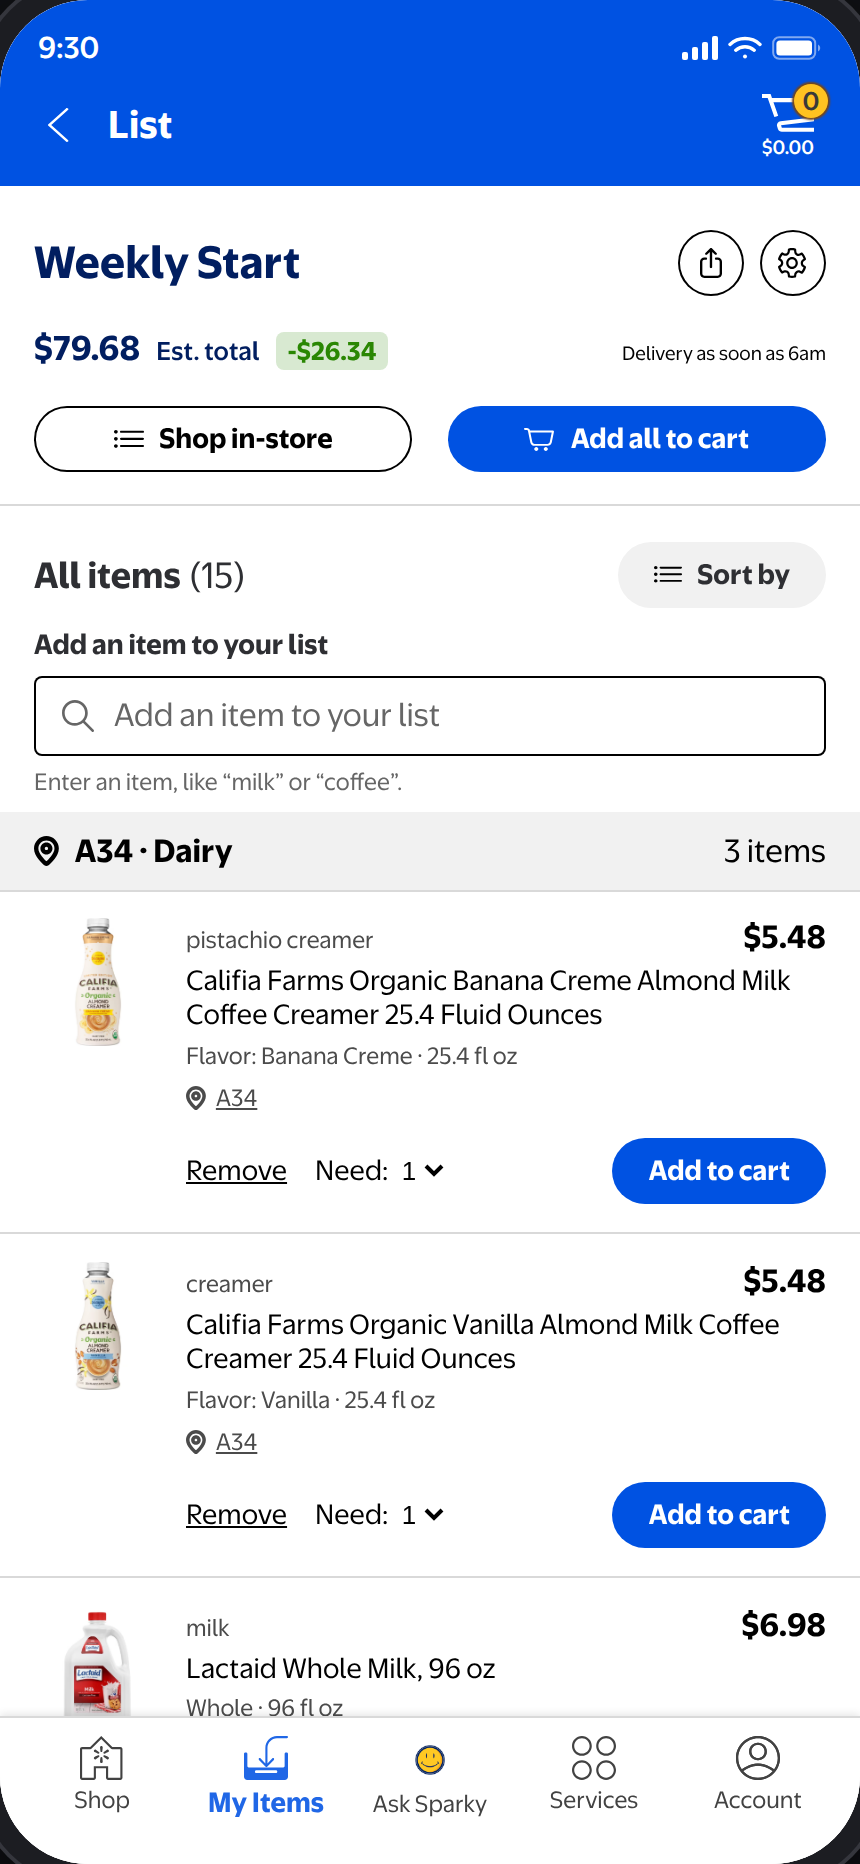
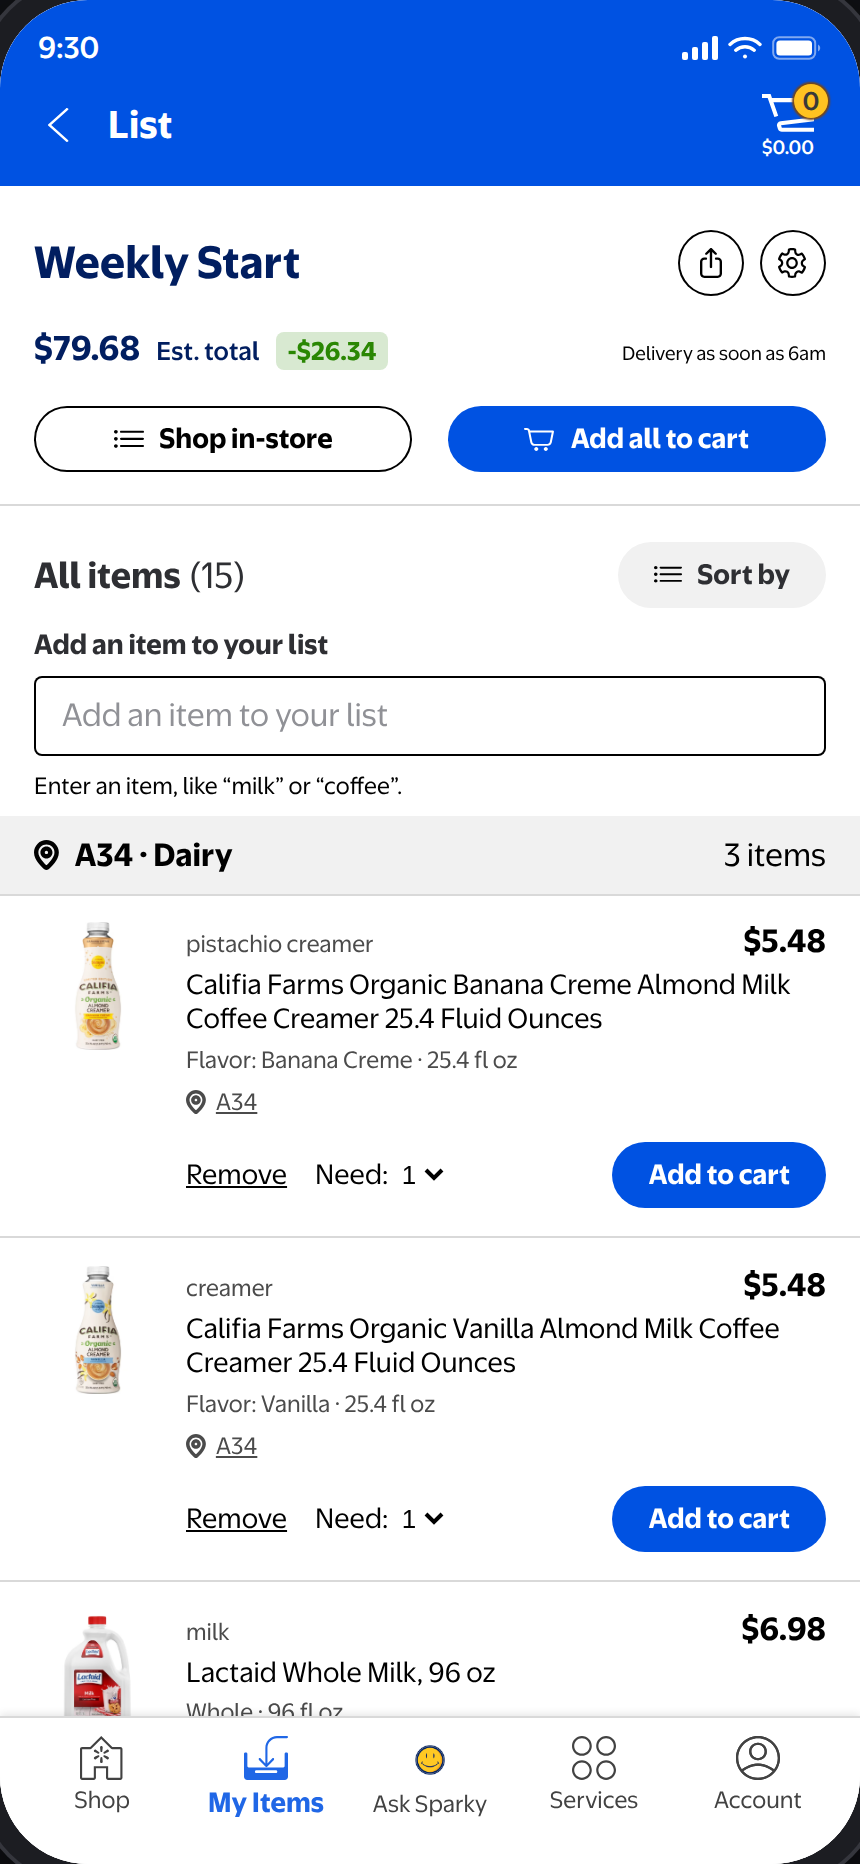
Revert the input restyle, keeping the rest of the last round
Restores the search pill, the add-an-item field and the list-name field to
exactly how they were in a11a943: a plain div pill with a magnifier, a plain
text input whose placeholder sits at full ink, and the barcode glyph on the
right. Removes the search form wrapper, type=search, clear buttons, hover and
focus rings, the muted placeholder, and the inputwrap / inputclear / inputhint
helpers along with their CSS.

Scoped deliberately: ListDetail.tsx is now byte-identical to a11a943, and the
only line still differing in Chrome.tsx is the Device style prop, which the
viewport fit depends on. Everything else from that round stays - the frame
fitting the screen, the transparent Sparky, the roomier list rows with a flash
tag on each, and the 11px card subtitle.

Verified: 12 targeted checks confirm the inputs are back and the four keepers
survived, plus the 19 behaviour checks still pass, with no console errors.

Claude-Session: https://claude.ai/code/session_01JZaS8mfLTFrBThBCfpqJJB

diff --git a/app/src/screens/ListDetail.tsx b/app/src/screens/ListDetail.tsx
@@ -58,23 +58,11 @@ export default function ListDetail() {
         </div>
 
         <div style={{ padding: '18px 16px 6px', display: 'flex', gap: 14, alignItems: 'center' }}>
-          <div className="inputwrap" style={{ flex: 1 }}>
-            <input className="field" type="search" autoFocus value={query}
-                   placeholder="Add an item to your list" aria-label="Add an item to your list"
-                   autoComplete="off" spellCheck={false} enterKeyHint="search"
-                   onChange={e => setQuery(e.target.value)} style={{ height: 40 }} />
-            {query && (
-              <button type="button" className="inputclear" aria-label="Clear search"
-                      onClick={() => setQuery('')}>
-                <FigIcon name="close" size={10} color="#fff" />
-              </button>
-            )}
-          </div>
+          <input className="field" autoFocus value={query} placeholder="Add an item to your list"
+                 onChange={e => setQuery(e.target.value)} style={{ flex: 1, height: 40 }} />
           <button style={{ fontSize: 15 }} onClick={() => { setSearching(false); setQuery(''); }}>Cancel</button>
         </div>
-        <div className="inputhint" style={{ padding: '0 16px' }}>
-          Enter an item, like “milk” or “coffee”.
-        </div>
+        <div style={{ padding: '0 16px', fontSize: 11 }}>Enter an item, like “milk” or “coffee”.</div>
 
         <ul className="scroll" style={{ padding: '12px 0' }}>
           {matches.map(m => (
@@ -164,14 +152,10 @@ export default function ListDetail() {
             Add an item to your list
           </div>
           <button className="field" onClick={() => setSearching(true)}
-                  style={{ display: 'flex', alignItems: 'center', gap: 10,
-                           textAlign: 'left', color: 'var(--ink-5)', height: 40 }}>
-            <FigIcon name="search" size={16} color="var(--ink-5)" />
+                  style={{ textAlign: 'left', color: 'var(--muted)', height: 40 }}>
             Add an item to your list
           </button>
-          <div className="inputhint" style={{ marginBottom: 2 }}>
-            Enter an item, like “milk” or “coffee”.
-          </div>
+          <div style={{ fontSize: 11, margin: '8px 0 2px' }}>Enter an item, like “milk” or “coffee”.</div>
         </div>
 
         {list.items.length === 0 ? <EmptyState /> : (

diff --git a/app/src/design/tokens.css b/app/src/design/tokens.css
@@ -95,45 +95,11 @@ ul, ol { margin: 0; padding: 0; list-style: none; }
   flex: 1; height: 42px; background: #fff; border-radius: var(--r-pill);
   display: flex; align-items: center; gap: 10px; padding: 0 16px;
 }
-/* ---------------- inputs ----------------
-   Placeholder is muted so it never reads as a filled value; focus is visible,
-   hover is felt, and a clear affordance appears once there is something to
-   clear. Touch targets stay at 40px+. */
-.searchfield {
-  position: relative;
-  transition: box-shadow .15s;
-  box-shadow: inset 0 0 0 1px transparent;
-}
-/* inside the pill the clear button takes the barcode's slot, so it flows
-   normally rather than being absolutely placed */
-.searchfield .inputclear { position: static; }
-.searchfield:hover { box-shadow: inset 0 0 0 1px var(--muted-2); }
-.searchfield:focus-within { box-shadow: 0 0 0 3px rgba(255,194,33,.9); }
 .searchfield .searchinput {
   flex: 1; border: 0; outline: 0; background: none;
   font-size: 15px; color: var(--ink); min-width: 0;
 }
-.searchfield .searchinput::placeholder { color: var(--ink-5); opacity: 1; }
-.searchfield .searchinput::-webkit-search-cancel-button { display: none; }
-
-.field {
-  transition: box-shadow .15s;
-}
-.field:hover:not(:disabled) { box-shadow: inset 0 0 0 1px var(--ink-2); }
-.field:focus, .field:focus-visible {
-  outline: 0;
-  box-shadow: inset 0 0 0 2px var(--wm-blue), 0 0 0 3px rgba(0,82,226,.18);
-}
-.field::placeholder { color: var(--ink-5); opacity: 1; }
-.field:disabled { background: var(--surface-2); color: var(--muted); box-shadow: inset 0 0 0 1px var(--line); }
-
-.inputwrap { position: relative; display: flex; align-items: center; }
-.inputclear {
-  position: absolute; right: 10px; width: 22px; height: 22px; border-radius: 999px;
-  background: var(--ink-2); display: grid; place-items: center;
-}
-.inputclear:hover { background: var(--ink); }
-.inputhint { font-size: 11px; color: var(--ink-5); margin-top: 6px; }
+.searchfield .searchinput::placeholder { color: var(--ink); opacity: 1; }
 
 .cartbtn { position: relative; width: 40px; display: grid; justify-items: center; }
 .cartbadge {

diff --git a/app/src/components/Chrome.tsx b/app/src/components/Chrome.tsx
@@ -1,4 +1,4 @@
-import { useState, type ReactNode } from 'react';
+import type { ReactNode } from 'react';
 import { useNavigate, useLocation } from 'react-router-dom';
 import { FigIcon } from '../design/FigIcon';
 import { useStore } from '../store';
@@ -49,8 +49,12 @@ export function AppBar({ title, onBack, search = false, children }: {
       <StatusBar />
       {search ? (
         <div className="appbar-search">
-          {/* design: 346x42 pill, r21; magnifier 19px, 15px input, barcode 26x18 */}
-          <SearchField />
+          {/* design: 346x42 pill, r21; magnifier 19px, label 15px Regular, barcode 26x18 */}
+          <div className="searchfield">
+            <FigIcon name="search" size={19} color="var(--ink)" />
+            <input className="searchinput" placeholder="Search Walmart" aria-label="Search Walmart" />
+            <FigIcon name="barcode" size={19} color="var(--ink)" />
+          </div>
           <CartButton />
         </div>
       ) : (
@@ -66,34 +70,6 @@ export function AppBar({ title, onBack, search = false, children }: {
       )}
       {children}
     </div>
-  );
-}
-
-/** Search with the states a real field needs: hover, focus, clear, submit. */
-function SearchField() {
-  const [q, setQ] = useState('');
-  return (
-    <form className="searchfield" role="search" onSubmit={e => e.preventDefault()}>
-      <FigIcon name="search" size={19} color="var(--ink)" />
-      <input
-        className="searchinput"
-        type="search"
-        value={q}
-        onChange={e => setQ(e.target.value)}
-        placeholder="Search Walmart"
-        aria-label="Search Walmart"
-        autoComplete="off"
-        spellCheck={false}
-        enterKeyHint="search"
-      />
-      {q ? (
-        <button type="button" className="inputclear" aria-label="Clear search" onClick={() => setQ('')}>
-          <FigIcon name="close" size={10} color="#fff" />
-        </button>
-      ) : (
-        <FigIcon name="barcode" size={19} color="var(--ink)" />
-      )}
-    </form>
   );
 }
 

diff --git a/app/src/screens/Lists.tsx b/app/src/screens/Lists.tsx
@@ -77,21 +77,18 @@ export default function Lists() {
       {creating && (
         <Sheet title="Create a new list" onClose={() => setCreating(false)}>
           <label htmlFor="listname" style={{ fontSize: 13, fontWeight: 700 }}>Enter list name</label>
-          <div className="inputwrap" style={{ margin: '10px 0 6px' }}>
+          <div style={{ position: 'relative', margin: '10px 0 22px' }}>
             <input id="listname" className="field" autoFocus value={name}
-                   placeholder="Enter list name" autoComplete="off" enterKeyHint="done"
-                   aria-describedby="listname-hint"
+                   placeholder="Enter list name"
                    onChange={e => setName(e.target.value)}
                    onKeyDown={e => e.key === 'Enter' && create()} />
             {name && (
-              <button type="button" className="inputclear" aria-label="Clear list name"
-                      onClick={() => setName('')}>
+              <button onClick={() => setName('')} aria-label="Clear"
+                style={{ position: 'absolute', right: 12, top: 11, width: 20, height: 20,
+                         borderRadius: 999, background: 'var(--ink-2)', display: 'grid', placeItems: 'center' }}>
                 <FigIcon name="close" size={10} color="#fff" />
               </button>
             )}
-          </div>
-          <div id="listname-hint" className="inputhint" style={{ marginBottom: 18 }}>
-            Give it a name you'll recognise later, like "Weekly Start".
           </div>
           <button className="btn btn-primary btn-block" disabled={!name.trim()} onClick={create}>Create</button>
         </Sheet>
